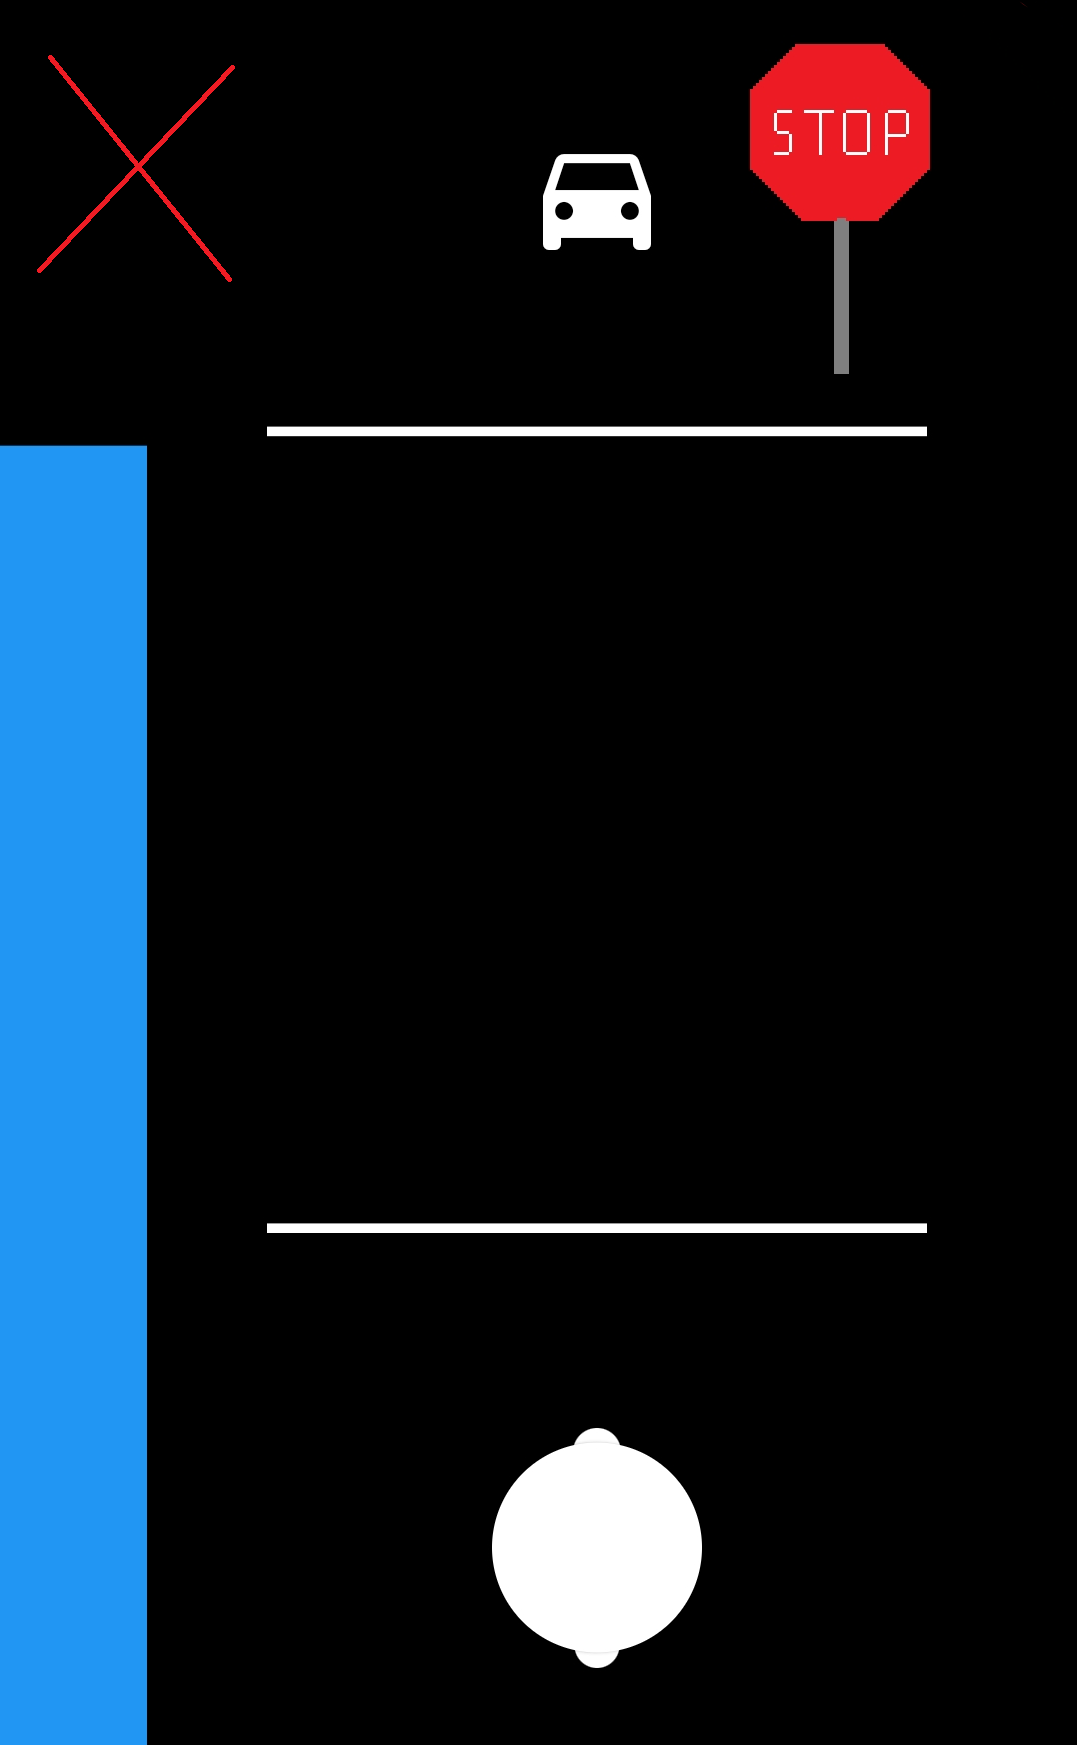
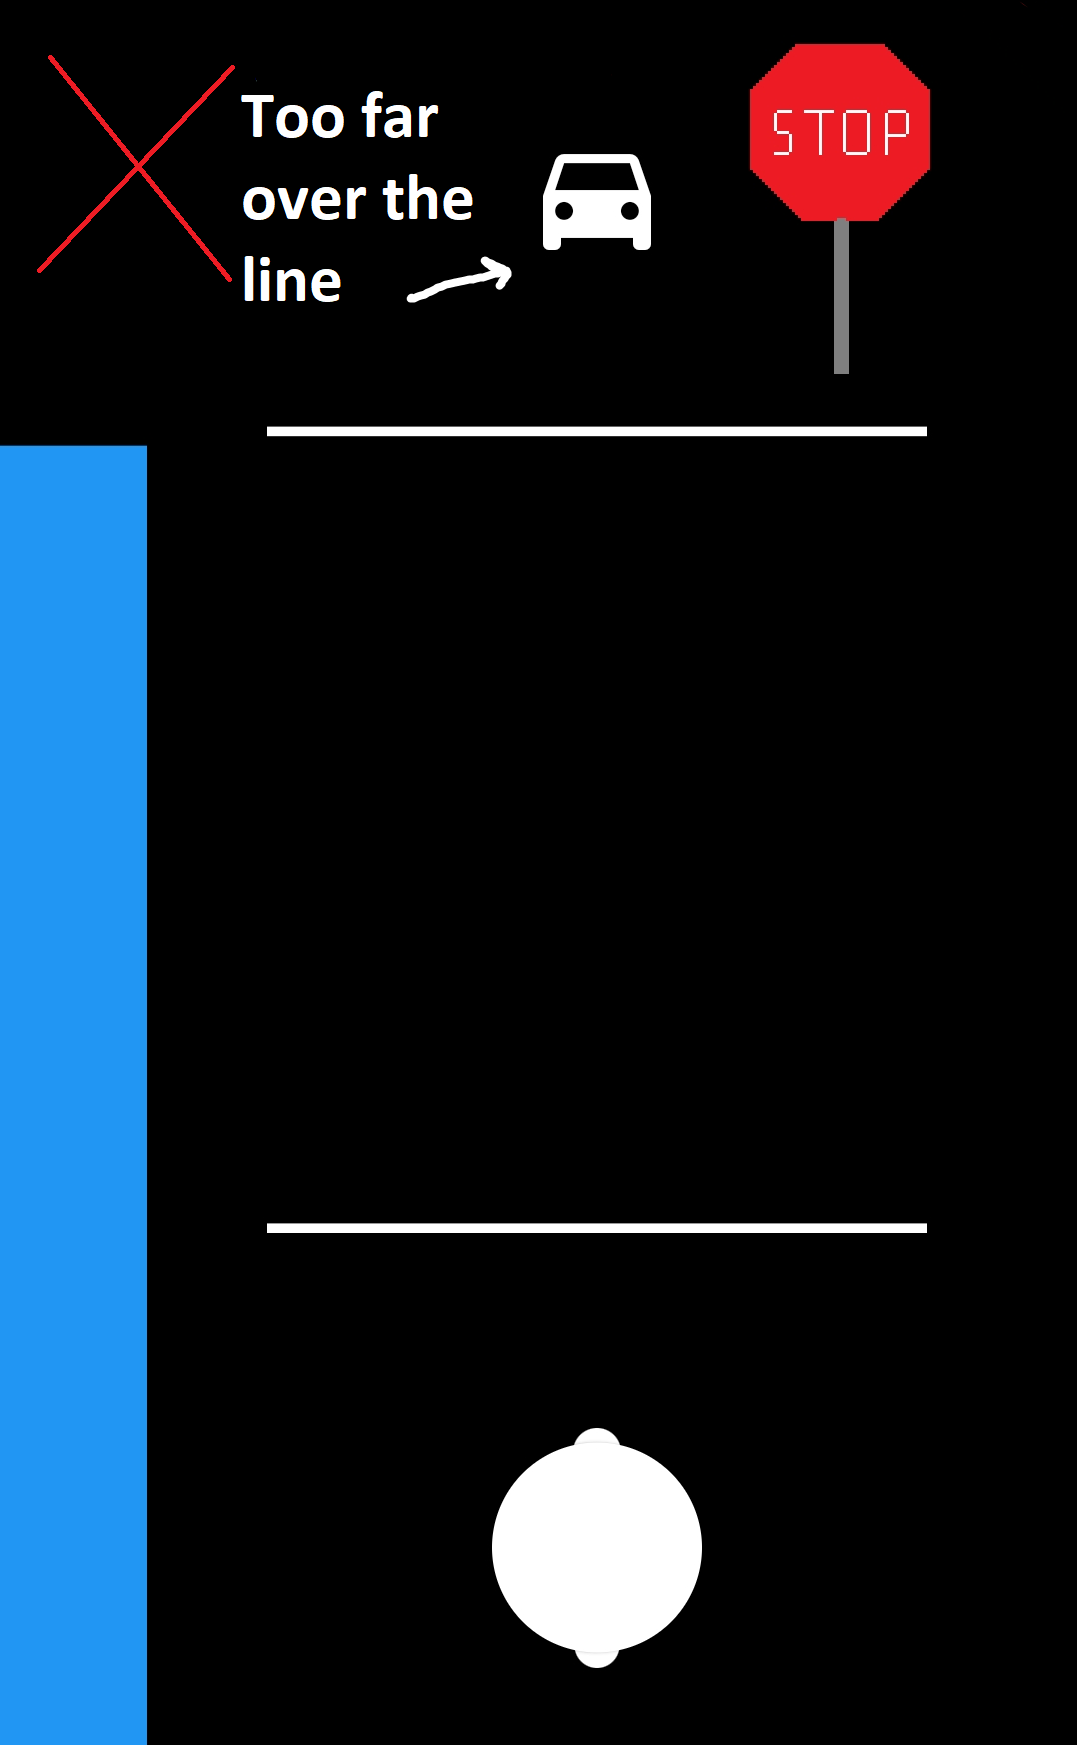
updated pictures in instructions with text

Changed region(s): [[0.2145, 0.0309, 0.4903, 0.1857]]

diff --git a/lib/instruction_page4.dart b/lib/instruction_page4.dart
@@ -60,7 +60,7 @@ class _InstructionPage4State extends State<InstructionPage4> {
             padding: const EdgeInsets.all(8.0),
             child: Center(
               child: Text(
-                'The image on the right end of the row shows where the optimal position is.',
+                'The image on the right end of the row shows where the optimal end point is.',
                 style: TextStyle(
                     fontSize: 14.0,
                     fontWeight: FontWeight.bold,

diff --git a/lib/data.dart b/lib/data.dart
@@ -61,8 +61,10 @@ Future<bool> createData(
 
   if (response.statusCode == 200) {
     Data.fromJson(jsonDecode(response.body));
+    print(response.statusCode);
     return Future.value(true);
   } else {
+    print(response.statusCode);
     return Future.value(false);
   }
 }
